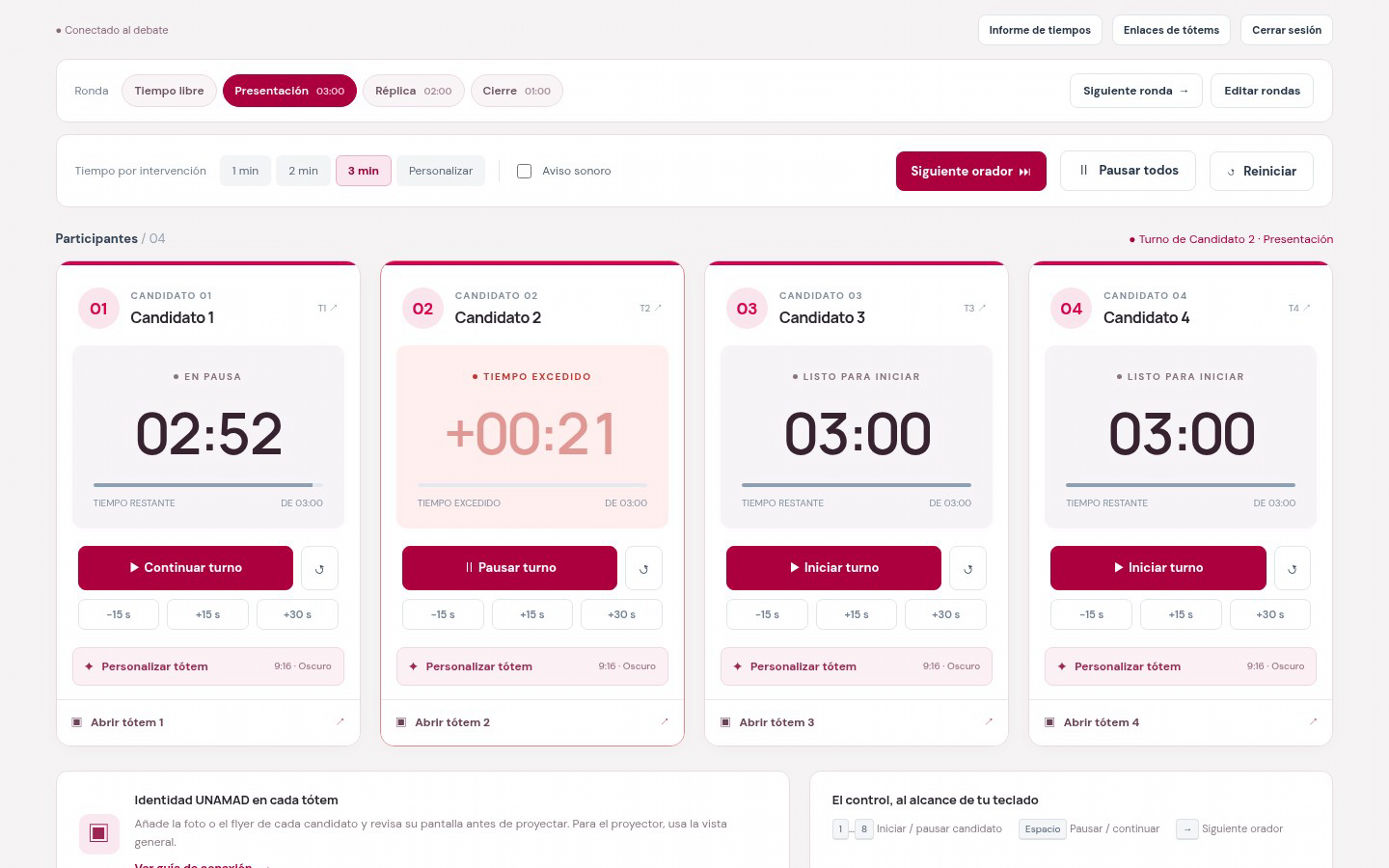
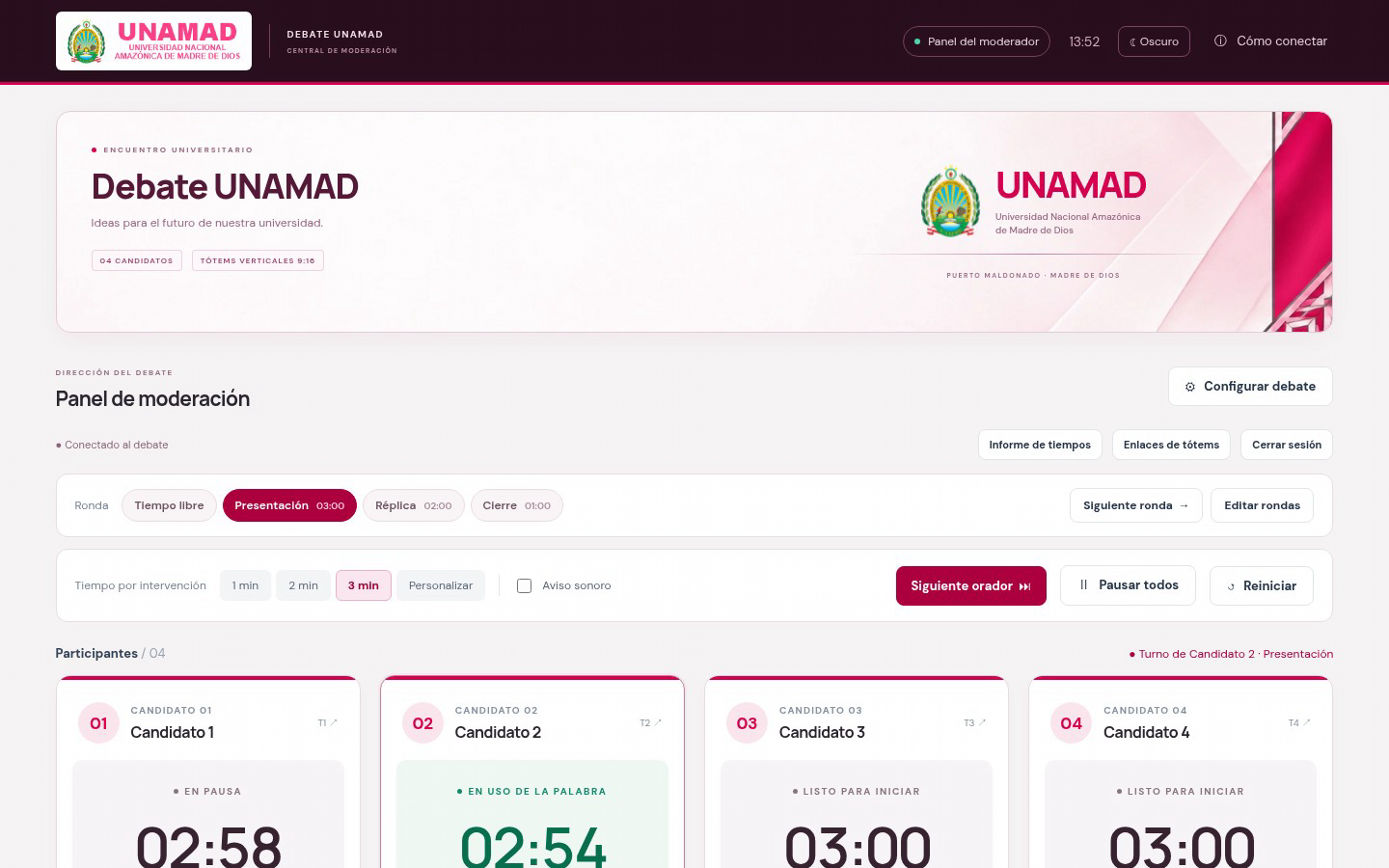
Marca «Debate UNAMAD»: se elimina toda referencia al Rectorado
- Nombre por defecto del evento: «Debate UNAMAD».
- Cabeceras de la vista general y de la pantalla del público: nombre del
  evento con «Universidad Nacional Amazónica de Madre de Dios».
- Sin cargo por defecto en los candidatos (antes «Postulante al Rectorado»).
- Títulos, metadatos, imagen para compartir, README y capturas actualizados.
- Los debates guardados con los textos anteriores se muestran con la marca nueva.

diff --git a/public/app.js b/public/app.js
@@ -444,7 +444,7 @@ $("settings-form").onsubmit = async (e) => {
   const d = settingsDraft;
   const command = {
     type: "settings",
-    event: $("event-name").value.trim() || "Debate al Rectorado · UNAMAD",
+    event: $("event-name").value.trim() || "Debate UNAMAD",
     warning: Number($("warning-seconds").value),
     overtime: $("overtime-enabled").checked,
     mode:
@@ -647,7 +647,7 @@ function renderRounds() {
 }
 function renderPanel() {
   $("app").innerHTML =
-    `<header><div class="brand"><div class="official-logo-plate"><img src="assets/unamad-logo-oficial.png" alt="UNAMAD · Universidad Nacional Amazónica de Madre de Dios" width="262" height="70"></div><div class="brand-separator"></div><div class="brand-program">DEBATE AL RECTORADO<span>CENTRAL DE MODERACIÓN</span></div></div><div class="header-right"><div class="pill"><span class="dot"></span> Panel del moderador</div><span class="header-clock" id="clock"></span><button class="panel-theme" id="panel-theme" title="Cambiar apariencia del panel">☾ Oscuro</button><button class="header-help" id="help-top">ⓘ &nbsp; Cómo conectar</button></div></header><main><div id="owner-warning" class="owner-warning" hidden><span id="owner-warning-text"></span><button id="take-control" class="secondary">Reintentar</button></div><section class="institutional-hero"><div class="institutional-hero-copy"><span class="hero-eyebrow"><i></i> ENCUENTRO UNIVERSITARIO</span><h1 id="event-title"></h1><p>Ideas para el futuro de nuestra universidad.</p><div class="hero-tags"><span id="hero-count"></span><span id="hero-mode"></span></div></div><div class="institutional-hero-visual"><div class="hero-identity"><img class="hero-crest" src="assets/unamad-escudo-oficial.png" alt="Escudo de la UNAMAD"><div class="hero-wordmark">UNAMAD<span>Universidad Nacional Amazónica<br>de Madre de Dios</span></div></div><div class="hero-identity-line"></div><span class="hero-location">PUERTO MALDONADO · MADRE DE DIOS</span></div></section><div class="workspace-heading"><div><span class="eyebrow">DIRECCIÓN DEL DEBATE</span><h2>Panel de moderación</h2></div><button class="secondary" id="settings-btn"><span aria-hidden="true">⚙</span> Configurar debate</button></div><div class="cloud-tools"><span class="cloud-state" id="cloud-status">Conectado al debate</span><button class="secondary" id="open-report">Informe de tiempos</button><button class="secondary" id="share-links">Enlaces de tótems</button><button class="secondary" id="logout">Cerrar sesión</button></div><section class="stage-bar" id="stage-bar" hidden aria-label="Pantalla única"><div class="stage-now"><span class="eyebrow">EN PANTALLA</span><strong id="stage-name"></strong><span id="stage-status"></span></div><div class="stage-time" id="stage-time"></div><div class="stage-actions"><button class="primary stage-play" id="stage-play">▶ &nbsp; Iniciar</button><button class="secondary" id="stage-next" title="Presenta e inicia al siguiente candidato (tecla →)">Siguiente &nbsp;⏭</button></div><div class="stage-pick"><span class="toolbar-label">Presentar</span><div class="stage-chips" id="stage-chips"></div><span class="stage-screens" id="stage-screens"></span></div></section><section class="round-bar" aria-label="Rondas del debate"><span class="toolbar-label">Ronda</span><div class="round-chips" id="round-chips"></div><div class="round-actions"><button class="secondary" id="next-round">Siguiente ronda &nbsp;→</button><button class="subtle" id="edit-rounds">Editar rondas</button></div></section><section class="toolbar" aria-label="Controles generales"><div class="toolbar-group"><span class="toolbar-label">Tiempo por intervención</span><div class="presets"><button class="preset" data-preset="60">1 min</button><button class="preset" data-preset="120">2 min</button><button class="preset" data-preset="180">3 min</button><button class="preset" id="custom-time">Personalizar</button></div><span class="divider"></span><label class="sound-label"><input id="sound" type="checkbox"> Aviso sonoro</label></div><div class="toolbar-group"><button class="primary" id="next-speaker" title="Pausa el turno actual e inicia el siguiente (tecla →)">Siguiente orador &nbsp;⏭</button><button class="secondary" id="pause-all">Ⅱ &nbsp; Pausar todos</button><button class="subtle" id="reset-all" title="Reiniciar todos los cronómetros">↺ &nbsp; Reiniciar</button></div></section><div class="status-line"><strong>Participantes <span class="muted-count" id="participant-count"></span></strong><span id="live-status">● &nbsp; Listos para comenzar</span></div><section class="cards" id="cards" aria-label="Cronómetros de los candidatos"></section><section class="bottom-row"><div class="guide-card"><div class="guide-symbol" aria-hidden="true">▣</div><div><h3>Identidad UNAMAD en cada tótem</h3><p>Añade la foto o el flyer de cada candidato y revisa su pantalla antes de proyectar. Para el proyector, usa la vista general.</p><button class="text-btn" id="help-bottom">Ver guía de conexión &nbsp; →</button></div></div><div class="shortcuts"><h3>El control, al alcance de tu teclado</h3><div class="shortcut-row"><span><kbd>1</kbd>…<kbd>8</kbd> Iniciar / pausar candidato</span><span><kbd>Espacio</kbd> Pausar / continuar</span><span><kbd>→</kbd> Siguiente orador</span></div></div></section><footer class="footer"><span><strong>● Un turno activo a la vez.</strong> Al cambiar de candidato, el anterior queda en pausa.</span><span id="footer-note">UNAMAD · Tótems en equipos independientes</span></footer></main>`;
+    `<header><div class="brand"><div class="official-logo-plate"><img src="assets/unamad-logo-oficial.png" alt="UNAMAD · Universidad Nacional Amazónica de Madre de Dios" width="262" height="70"></div><div class="brand-separator"></div><div class="brand-program">DEBATE UNAMAD<span>CENTRAL DE MODERACIÓN</span></div></div><div class="header-right"><div class="pill"><span class="dot"></span> Panel del moderador</div><span class="header-clock" id="clock"></span><button class="panel-theme" id="panel-theme" title="Cambiar apariencia del panel">☾ Oscuro</button><button class="header-help" id="help-top">ⓘ &nbsp; Cómo conectar</button></div></header><main><div id="owner-warning" class="owner-warning" hidden><span id="owner-warning-text"></span><button id="take-control" class="secondary">Reintentar</button></div><section class="institutional-hero"><div class="institutional-hero-copy"><span class="hero-eyebrow"><i></i> ENCUENTRO UNIVERSITARIO</span><h1 id="event-title"></h1><p>Ideas para el futuro de nuestra universidad.</p><div class="hero-tags"><span id="hero-count"></span><span id="hero-mode"></span></div></div><div class="institutional-hero-visual"><div class="hero-identity"><img class="hero-crest" src="assets/unamad-escudo-oficial.png" alt="Escudo de la UNAMAD"><div class="hero-wordmark">UNAMAD<span>Universidad Nacional Amazónica<br>de Madre de Dios</span></div></div><div class="hero-identity-line"></div><span class="hero-location">PUERTO MALDONADO · MADRE DE DIOS</span></div></section><div class="workspace-heading"><div><span class="eyebrow">DIRECCIÓN DEL DEBATE</span><h2>Panel de moderación</h2></div><button class="secondary" id="settings-btn"><span aria-hidden="true">⚙</span> Configurar debate</button></div><div class="cloud-tools"><span class="cloud-state" id="cloud-status">Conectado al debate</span><button class="secondary" id="open-report">Informe de tiempos</button><button class="secondary" id="share-links">Enlaces de tótems</button><button class="secondary" id="logout">Cerrar sesión</button></div><section class="stage-bar" id="stage-bar" hidden aria-label="Pantalla única"><div class="stage-now"><span class="eyebrow">EN PANTALLA</span><strong id="stage-name"></strong><span id="stage-status"></span></div><div class="stage-time" id="stage-time"></div><div class="stage-actions"><button class="primary stage-play" id="stage-play">▶ &nbsp; Iniciar</button><button class="secondary" id="stage-next" title="Presenta e inicia al siguiente candidato (tecla →)">Siguiente &nbsp;⏭</button></div><div class="stage-pick"><span class="toolbar-label">Presentar</span><div class="stage-chips" id="stage-chips"></div><span class="stage-screens" id="stage-screens"></span></div></section><section class="round-bar" aria-label="Rondas del debate"><span class="toolbar-label">Ronda</span><div class="round-chips" id="round-chips"></div><div class="round-actions"><button class="secondary" id="next-round">Siguiente ronda &nbsp;→</button><button class="subtle" id="edit-rounds">Editar rondas</button></div></section><section class="toolbar" aria-label="Controles generales"><div class="toolbar-group"><span class="toolbar-label">Tiempo por intervención</span><div class="presets"><button class="preset" data-preset="60">1 min</button><button class="preset" data-preset="120">2 min</button><button class="preset" data-preset="180">3 min</button><button class="preset" id="custom-time">Personalizar</button></div><span class="divider"></span><label class="sound-label"><input id="sound" type="checkbox"> Aviso sonoro</label></div><div class="toolbar-group"><button class="primary" id="next-speaker" title="Pausa el turno actual e inicia el siguiente (tecla →)">Siguiente orador &nbsp;⏭</button><button class="secondary" id="pause-all">Ⅱ &nbsp; Pausar todos</button><button class="subtle" id="reset-all" title="Reiniciar todos los cronómetros">↺ &nbsp; Reiniciar</button></div></section><div class="status-line"><strong>Participantes <span class="muted-count" id="participant-count"></span></strong><span id="live-status">● &nbsp; Listos para comenzar</span></div><section class="cards" id="cards" aria-label="Cronómetros de los candidatos"></section><section class="bottom-row"><div class="guide-card"><div class="guide-symbol" aria-hidden="true">▣</div><div><h3>Identidad UNAMAD en cada tótem</h3><p>Añade la foto o el flyer de cada candidato y revisa su pantalla antes de proyectar. Para el proyector, usa la vista general.</p><button class="text-btn" id="help-bottom">Ver guía de conexión &nbsp; →</button></div></div><div class="shortcuts"><h3>El control, al alcance de tu teclado</h3><div class="shortcut-row"><span><kbd>1</kbd>…<kbd>8</kbd> Iniciar / pausar candidato</span><span><kbd>Espacio</kbd> Pausar / continuar</span><span><kbd>→</kbd> Siguiente orador</span></div></div></section><footer class="footer"><span><strong>● Un turno activo a la vez.</strong> Al cambiar de candidato, el anterior queda en pausa.</span><span id="footer-note">UNAMAD · Tótems en equipos independientes</span></footer></main>`;
   $("share-links").onclick = showLinks;
   $("open-report").onclick = openReport;
   $("logout").onclick = () => Cloud.logout().catch((e) => toast(e.message));
@@ -739,7 +739,7 @@ function renderDisplay() {
       '<div class="empty-state"><h1>Pantalla no encontrada</h1><p>Abre el enlace del tótem desde el panel del moderador («Enlaces de tótems»).</p><a href="./">Volver al panel</a></div>';
     return;
   }
-  document.title = "Tótem " + displayId + " — Rectorado UNAMAD";
+  document.title = "Tótem " + displayId + " — Debate UNAMAD";
   $("app").innerHTML =
     `<section class="signage-screen" id="projection">${Totem.stageHTML()}<div class="unassigned-note" id="unassigned" hidden><img src="assets/unamad-escudo-oficial.png" alt=""><strong>Tótem ${displayId}</strong><span>Sin candidato asignado</span><small>El moderador puede agregarlo en «Configurar debate».</small></div>${screenTools}</section>`;
   setupScreen($("projection"));
@@ -751,12 +751,12 @@ function renderOverview() {
       el.classList.add("overview-transparent");
   document.title = "Vista general — Debate UNAMAD";
   $("app").innerHTML =
-    `<section class="overview-screen" id="overview"><div class="overview-head"><div class="overview-brand"><img src="assets/unamad-escudo-oficial.png" alt="Escudo de la UNAMAD"><div><strong>UNAMAD</strong><span id="ov-event"></span></div></div><div class="overview-round"><span>RONDA</span><strong id="ov-round"></strong></div></div><div class="overview-speaker" id="ov-speaker"><div class="ov-speaker-info"><span class="ov-kicker" id="ov-kicker"></span><h1 id="ov-name"></h1><p id="ov-role"></p></div><div class="ov-speaker-clock"><div class="ov-time" id="ov-time"></div><div class="ov-track"><div id="ov-progress"></div></div></div></div><div class="overview-grid" id="ov-grid"></div>${screenTools}</section>`;
+    `<section class="overview-screen" id="overview"><div class="overview-head"><div class="overview-brand"><img src="assets/unamad-escudo-oficial.png" alt="Escudo de la UNAMAD"><div><strong id="ov-event"></strong><span>Universidad Nacional Amazónica de Madre de Dios</span></div></div><div class="overview-round"><span>RONDA</span><strong id="ov-round"></strong></div></div><div class="overview-speaker" id="ov-speaker"><div class="ov-speaker-info"><span class="ov-kicker" id="ov-kicker"></span><h1 id="ov-name"></h1><p id="ov-role"></p></div><div class="ov-speaker-clock"><div class="ov-time" id="ov-time"></div><div class="ov-track"><div id="ov-progress"></div></div></div></div><div class="overview-grid" id="ov-grid"></div>${screenTools}</section>`;
   renderOverviewGrid();
   setupScreen($("overview"));
 }
 const brandHead = (prefix) =>
-  `<div class="overview-head"><div class="overview-brand"><img src="assets/unamad-escudo-oficial.png" alt="Escudo de la UNAMAD"><div><strong>UNAMAD</strong><span id="${prefix}-event"></span></div></div><div class="overview-round"><span>RONDA</span><strong id="${prefix}-round"></strong></div></div>`;
+  `<div class="overview-head"><div class="overview-brand"><img src="assets/unamad-escudo-oficial.png" alt="Escudo de la UNAMAD"><div><strong id="${prefix}-event"></strong><span>Universidad Nacional Amazónica de Madre de Dios</span></div></div><div class="overview-round"><span>RONDA</span><strong id="${prefix}-round"></strong></div></div>`;
 function renderPublic() {
   document.body.classList.add("display-body", "overview-body");
   document.title = "Pantalla del público — Debate UNAMAD";

diff --git a/public/index.html b/public/index.html
@@ -4,18 +4,18 @@
     <meta charset="utf-8" />
     <meta name="viewport" content="width=device-width,initial-scale=1" />
     <meta name="theme-color" content="#970039" />
-    <title>Debate al Rectorado · UNAMAD</title>
+    <title>Debate UNAMAD · Universidad Nacional Amazónica de Madre de Dios</title>
     <meta
       name="description"
-      content="Central de moderación del debate al Rectorado de la UNAMAD, con cronómetros y tótems verticales personalizados."
+      content="Central de moderación de los debates de la Universidad Nacional Amazónica de Madre de Dios, con cronómetros sincronizados y pantallas personalizadas."
     />
     <meta name="robots" content="noindex, nofollow" />
     <meta property="og:type" content="website" />
     <meta property="og:site_name" content="UNAMAD" />
-    <meta property="og:title" content="Debate al Rectorado · UNAMAD" />
+    <meta property="og:title" content="Debate UNAMAD" />
     <meta
       property="og:description"
-      content="Cronómetros sincronizados y tótems del debate al Rectorado de la Universidad Nacional Amazónica de Madre de Dios."
+      content="Cronómetros sincronizados y pantallas del debate de la Universidad Nacional Amazónica de Madre de Dios."
     />
     <meta
       property="og:image"
@@ -36,7 +36,7 @@
     <div id="cloud-gate" class="cloud-gate">
       <section class="cloud-gate-card">
         <img src="assets/unamad-logo-oficial.png" alt="UNAMAD" />
-        <h1>Debate al Rectorado</h1>
+        <h1>Debate UNAMAD</h1>
         <p>
           Acceso del moderador. Los tótems se abren con sus enlaces de
           visualización.
@@ -384,7 +384,7 @@
               >Cargo o agrupación<input
                 id="design-role"
                 maxlength="70"
-                placeholder="Ej. Candidato al rectorado"
+                placeholder="Ej. Facultad de Ingeniería"
             /></label>
           </div>
           <p class="small muted">

diff --git a/public/debate.css b/public/debate.css
@@ -366,9 +366,10 @@
 .overview-brand strong {
   display: block;
   font-size: 3.6vh;
-  letter-spacing: -0.04em;
+  letter-spacing: -0.03em;
   color: #ff70a6;
-  line-height: 1;
+  line-height: 1.1;
+  overflow-wrap: anywhere;
 }
 .overview-brand span {
   display: block;

diff --git a/public/totem.js b/public/totem.js
@@ -15,7 +15,7 @@
       role:
         typeof d.role === "string"
           ? d.role.slice(0, 70)
-          : "Postulante al Rectorado",
+          : "",
       label:
         typeof d.label === "string"
           ? d.label.slice(0, 35)

diff --git a/README.md b/README.md
@@ -1,4 +1,4 @@
-# Debate al Rectorado · UNAMAD
+# Debate UNAMAD · Universidad Nacional Amazónica de Madre de Dios
 
 Sistema para moderar los tiempos de un debate: un panel protegido para el moderador y, según el evento, un tótem vertical por candidato o **una sola pantalla** para el público y otra para los candidatos. También tiene una vista general para el proyector o la transmisión. Todo se sincroniza por Internet a través de **Vercel + PostgreSQL en Neon**. Está hecho con HTML, CSS y JavaScript, y una API en Node.js; no requiere frameworks.
 

diff --git a/docs/visual-assets.md b/docs/visual-assets.md
@@ -1,4 +1,4 @@
-# Recursos visuales · Debate al Rectorado UNAMAD
+# Recursos visuales · Debate UNAMAD
 
 Se integraron marcas separadas, tipografía HTML y fondos decorativos independientes. La imagen de referencia original ya no se usa como cabecera compuesta.
 
